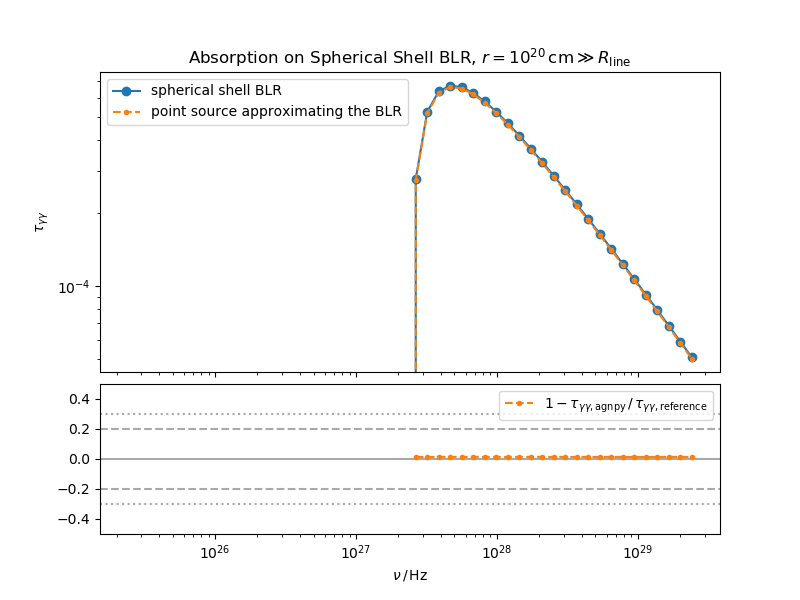
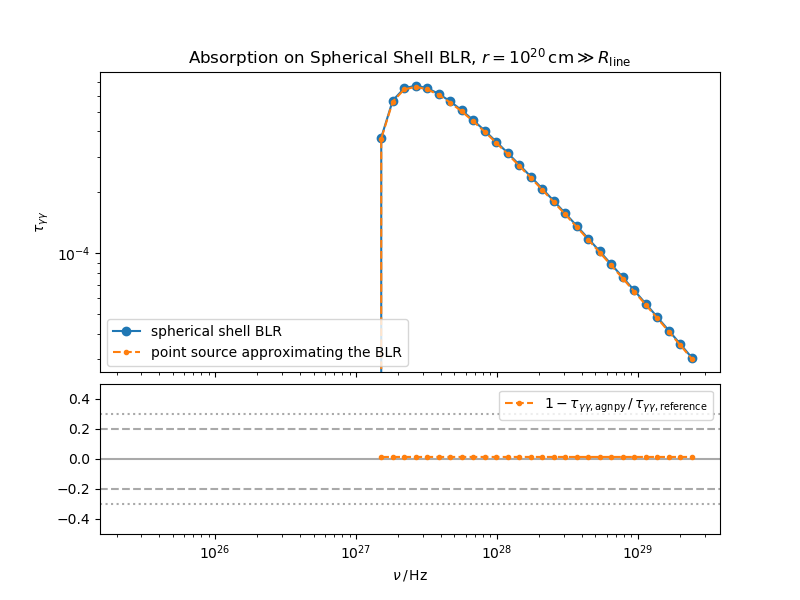
added redshift for the absorption tests

diff --git a/agnpy/tests/test_absorption.py b/agnpy/tests/test_absorption.py
@@ -36,9 +36,9 @@ pwl_dict_test = {
         "gamma_max": gamma_max_test,
     },
 }
-# blob parameters
+# blob parameters (use 3C 454.3 redshift z = 0.859)
 pwl_blob_test = Blob(
-    1e16 * u.cm, 0, 10, 10, 1 * u.G, spectrum_norm_test, pwl_dict_test,
+    1e16 * u.cm, 0.859, 10, 10, 1 * u.G, spectrum_norm_test, pwl_dict_test,
 )
 
 
